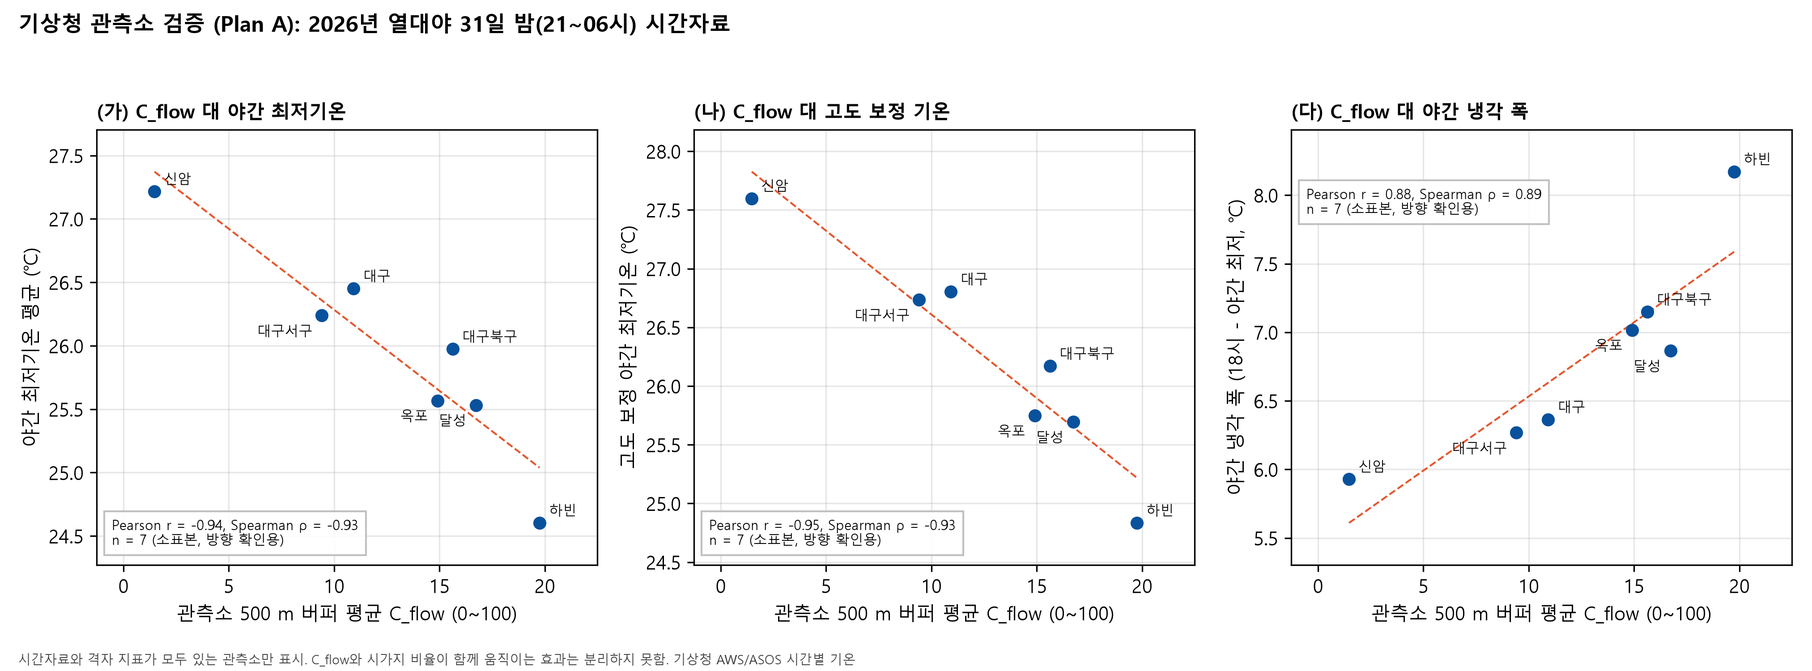
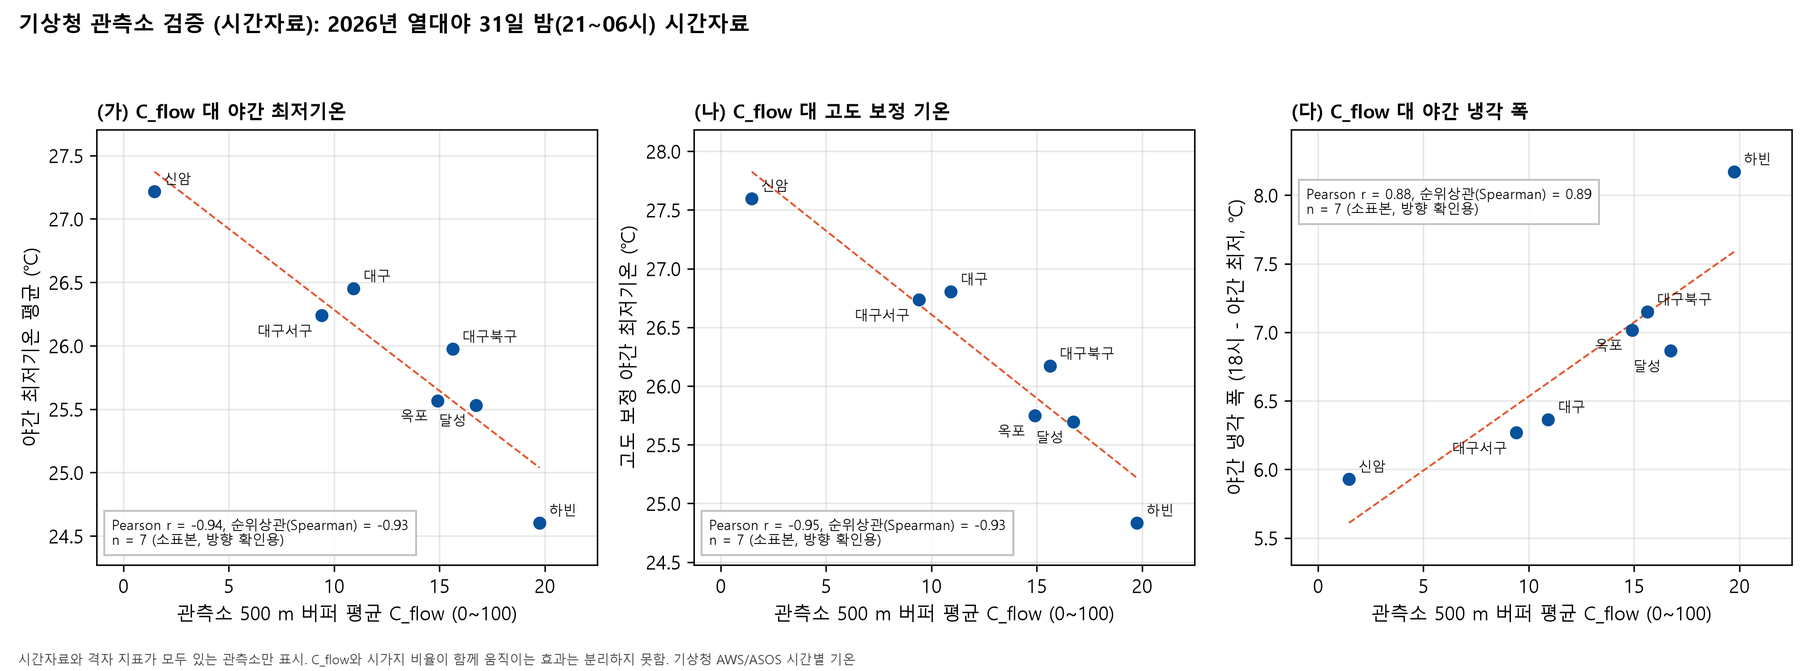
Remove internal codes, align figure terms and model names with final report

diff --git a/index.html b/index.html
@@ -1056,7 +1056,7 @@
               2026년 여름 열대야는 총 <strong>31일</strong>이었습니다. 기상청 열대야 목록 기준 밤 최저기온 평균은 <strong>26.35℃</strong>(최고 <strong>28.8℃</strong>)이고, 21시~다음 날 06시 정시 자료 기준 평균은 <strong>26.45℃</strong>, 일별 달력일(00~24시) 최저 평균은 <strong>26.00℃</strong>(목록과 3일만 일치)이므로 목적에 따라 시간 기준을 구분해 사용합니다.
             </p>
             <div class="story-highlight">
-              <strong>일교차 대신 저녁 18시부터 밤 최저까지의 하강 폭으로 검증:</strong> 1차 분석에서 참고한 일교차(맑은 날 11.57℃ 대 흐리거나 비 온 날 7.39℃)에는 낮 동안 햇볕으로 최고기온이 오르는 영향이 크게 섞입니다. 06 보강 실험에서 일교차 대신 저녁 18시부터 밤 최저까지의 하강 폭으로 2026년 6~9월 완결 <strong>120밤</strong>(관측소 7곳 평균, 강수 빈칸 또는 0이고 일평균 운량 3 이하를 맑음으로 분류)을 다시 집계한 결과, <strong>맑은 밤(25밤) 평균 9.41℃</strong>(중앙값 9.36℃), 중간 밤(43밤) <strong>7.74℃</strong>, <strong>흐리거나 비 온 밤(52밤) 4.63℃</strong>(중앙값 4.46℃)로 맑은 밤의 하강 폭이 두 배를 넘었습니다. 같은 기간 C_flow 최상위 하빈과 최하위 신암의 밤 최저기온 차이도 맑은 밤 평균 <strong>-3.44℃</strong>에서 흐리거나 비 온 밤 <strong>-1.38℃</strong>로 절반 이하로 줄었습니다.
+              <strong>일교차 대신 저녁 18시부터 밤 최저까지의 하강 폭으로 검증:</strong> 기본 분석에서 참고한 일교차(맑은 날 11.57℃ 대 흐리거나 비 온 날 7.39℃)에는 낮 동안 햇볕으로 최고기온이 오르는 영향이 크게 섞입니다. 보강 실험에서 일교차 대신 저녁 18시부터 밤 최저까지의 하강 폭으로 2026년 6~9월 완결 <strong>120밤</strong>(관측소 7곳 평균, 강수 빈칸 또는 0이고 일평균 운량 3 이하를 맑음으로 분류)을 다시 집계한 결과, <strong>맑은 밤(25밤) 평균 9.41℃</strong>(중앙값 9.36℃), 중간 밤(43밤) <strong>7.74℃</strong>, <strong>흐리거나 비 온 밤(52밤) 4.63℃</strong>(중앙값 4.46℃)로 맑은 밤의 하강 폭이 두 배를 넘었습니다. 같은 기간 C_flow 최상위 하빈과 최하위 신암의 밤 최저기온 차이도 맑은 밤 평균 <strong>-3.44℃</strong>에서 흐리거나 비 온 밤 <strong>-1.38℃</strong>로 절반 이하로 줄었습니다.
             </div>
             <figure class="story-figure">
               <img src="assets/exp_e2_sky_cooling.png" alt="하늘 상태별 7개 관측소 평균 야간 냉각 폭 및 하빈 대 신암 밤 최저기온 차이" onclick="openLightbox(this.src, this.alt)" />
@@ -1118,7 +1118,7 @@
               시가지 경계 관찰 구역에서 흐름 지표 상위 10%인 연속 구간 <strong>47개</strong>를 추출하고, 평균 점수가 가장 높은 <strong>도심 유입 길목 상위 15곳</strong>을 도출했습니다. 1위는 동구 <strong>동화천(COR_01, 평균 75.75점, 상위 0.7%)</strong>, 2위는 동구 <strong>불로천(COR_02, 71.17점, 상위 1.06%)</strong>이며, 수성구와 북구를 관통하는 <strong>신천(COR_06 64.68점, COR_07 62.95점)</strong>과 북구 <strong>팔거천(COR_13 59.75점, 인접 공원 16곳, 가로수 3,631그루)</strong>이 핵심 통로로 나타났습니다.
             </p>
             <div class="story-caution">
-              <strong>하천 및 공원 농축비 해석 주의 (독립 검증 아님):</strong> 감쇠 계수에서 하천과 공원 위치를 뺀 버전(river_free)에서도 상위 10% 격자의 하천 100m 이내 농축비는 <strong>2.214배</strong>(하천 포함 버전은 2.849배)였으나, DEM 흐름 누적은 원래 지형 골짜기를 따라가므로 이는 <strong>구조적 일치 확인일 뿐 독립 검증이 아닙니다</strong>. 또한 도시공원 농축비는 <strong>0.368배</strong>로 1보다 작은데, 흐름 상위 격자는 산지 계곡에 많고 도시공원은 시가지에 분포하기 때문입니다. 따라서 도시공원(672곳)과 가로수(97,618그루)는 흐름의 원천이 아니라 시가지로 유입된 길을 보행 공간으로 잇는 징검다리 역할로 해석해야 합니다.
+              <strong>하천 및 공원 농축비 해석 주의 (독립 검증 아님):</strong> 감쇠 계수에서 하천과 공원 위치를 뺀 버전에서도 상위 10% 격자의 하천 100m 이내 농축비는 <strong>2.214배</strong>(하천 포함 버전은 2.849배)였으나, DEM 흐름 누적은 원래 지형 골짜기를 따라가므로 이는 <strong>구조적 일치 확인일 뿐 독립 검증이 아닙니다</strong>. 또한 도시공원 농축비는 <strong>0.368배</strong>로 1보다 작은데, 흐름 상위 격자는 산지 계곡에 많고 도시공원은 시가지에 분포하기 때문입니다. 따라서 도시공원(672곳)과 가로수(97,618그루)는 흐름의 원천이 아니라 시가지로 유입된 길을 보행 공간으로 잇는 징검다리 역할로 해석해야 합니다.
             </div>
             <figure class="story-figure">
               <img src="assets/chart_02_corridor_profile_and_green_effect.png" alt="주요 유입 축 단면: 산자락에서 도심으로 갈 때의 찬 공기 흐름 간이 지표 변화" onclick="openLightbox(this.src, this.alt)" />
@@ -1140,20 +1140,20 @@
           </div>
           <div class="story-body">
             <p>
-              대구 주변 기상청 관측소 <strong>14곳</strong>(격자 안 <strong>12곳</strong>) 가운데 2026년 여름 시간별 기온 자료가 확보된 <strong>7곳</strong>(하빈, 달성, 대구북구, 옥포, 대구, 대구서구, 신암)에서 열대야 <strong>31일</strong>의 야간(21시~다음 날 06시, <strong>02 관측소 비교 기준: 밤 6시간 이상 관측된 밤</strong>) 실측 기온과 반경 500m 평균 지표를 비교했습니다.
+              대구 주변 기상청 관측소 <strong>14곳</strong>(격자 안 <strong>12곳</strong>) 가운데 2026년 여름 시간별 기온 자료가 확보된 <strong>7곳</strong>(하빈, 달성, 대구북구, 옥포, 대구, 대구서구, 신암)에서 열대야 <strong>31일</strong>의 야간(21시~다음 날 06시, <strong>기본 분석 관측소 비교 기준: 밤 6시간 이상 관측된 밤</strong>) 실측 기온과 반경 500m 평균 지표를 비교했습니다.
             </p>
             <p>
-              관측소 실측 비교에서 흐름 지표가 가장 높은 <strong>하빈(C_flow 19.746)</strong>의 열대야 밤 최저기온 평균은 <strong>24.60℃</strong>로 대구(ASOS 143, C_flow 10.924, 밤 최저 <strong>26.45℃</strong>)보다 실측 기준 <strong>1.85℃</strong> 낮았고, 옥포(25.57℃)는 <strong>0.88℃</strong>, 달성(25.53℃)은 <strong>0.92℃</strong>, 대구북구(25.97℃)는 <strong>0.48℃</strong> 더 낮았습니다. 반대로 도심 한가운데에 있어 흐름 지표가 가장 낮은 <strong>신암(C_flow 1.470)</strong>은 <strong>27.22℃</strong>로 대구 관측소보다 <strong>0.76℃</strong> 더 높았습니다. 7곳에서 500m 버퍼 C_flow와 열대야 밤 최저기온의 단순 순위상관은 <strong>Spearman ρ = -0.929</strong>(p=0.0025), 시가지 비율을 통제한 편순위상관은 <strong>-0.828</strong>(근사 p 약 0.042, n=7, <code>07d_extra.json</code> 기준)이며, 열대야 야간 냉각 폭과의 단순 순위상관은 <strong>+0.893</strong>이었습니다.
+              관측소 실측 비교에서 흐름 지표가 가장 높은 <strong>하빈(C_flow 19.746)</strong>의 열대야 밤 최저기온 평균은 <strong>24.60℃</strong>로 대구(ASOS 143, C_flow 10.924, 밤 최저 <strong>26.45℃</strong>)보다 실측 기준 <strong>1.85℃</strong> 낮았고, 옥포(25.57℃)는 <strong>0.88℃</strong>, 달성(25.53℃)은 <strong>0.92℃</strong>, 대구북구(25.97℃)는 <strong>0.48℃</strong> 더 낮았습니다. 반대로 도심 한가운데에 있어 흐름 지표가 가장 낮은 <strong>신암(C_flow 1.470)</strong>은 <strong>27.22℃</strong>로 대구 관측소보다 <strong>0.76℃</strong> 더 높았습니다. 7곳에서 500m 버퍼 C_flow와 열대야 밤 최저기온의 단순 순위상관은 <strong>Spearman ρ = -0.929</strong>(p=0.0025), 시가지 비율을 통제한 편순위상관은 <strong>-0.828</strong>(근사 p 약 0.042, n=7, 추가 계산 기준)이며, 열대야 야간 냉각 폭과의 단순 순위상관은 <strong>+0.893</strong>이었습니다.
             </p>
             <div class="story-caution">
               <strong>검증의 핵심 한계 (표본 수 n=7 및 분석 대상별 편상관 구분):</strong>
               1) 시간별 기온이 있는 관측소가 <strong>7곳</strong>뿐이라 검정력이 매우 낮습니다(청도, 가산, 칠곡, 신녕, 경산, 하양, 팔공산 7곳은 시간자료 없음).<br />
-              2) 열대야 밤 최저기온과 C_flow의 시가지 통제 편순위상관(<strong>-0.828</strong>, p 약 0.042, n=7)과 별개로, 06 보강 실험에서 관측소별 [맑은 밤 냉각 폭 - 흐린 밤 냉각 폭] 차이(하빈 6.30℃ 대 신암 3.60℃)를 대상으로 보면 단순 순위상관은 <strong>+0.857</strong>(p=0.0137)이나 시가지 비율 통제 편순위상관은 <strong>+0.639</strong>(근사 p=0.1719)로 통계적으로 유의하지 않았습니다. 두 수치는 분석 대상이 서로 다른 결과이며, n=7 요약만으로는 공간 교란 요인을 완전히 분리할 수 없습니다.
+              2) 열대야 밤 최저기온과 C_flow의 시가지 통제 편순위상관(<strong>-0.828</strong>, p 약 0.042, n=7)과 별개로, 보강 실험에서 관측소별 [맑은 밤 냉각 폭 - 흐린 밤 냉각 폭] 차이(하빈 6.30℃ 대 신암 3.60℃)를 대상으로 보면 단순 순위상관은 <strong>+0.857</strong>(p=0.0137)이나 시가지 비율 통제 편순위상관은 <strong>+0.639</strong>(근사 p=0.1719)로 통계적으로 유의하지 않았습니다. 두 수치는 분석 대상이 서로 다른 결과이며, n=7 요약만으로는 공간 교란 요인을 완전히 분리할 수 없습니다.
             </div>
             <figure class="story-figure">
-              <img src="assets/chart_03_station_validation_scatter.png" alt="기상청 관측소 7곳 C_flow 대 열대야 야간 최저기온, 고도보정 기온, 야간 냉각 폭 산점도" onclick="openLightbox(this.src, this.alt)" />
+              <img src="assets/chart_03_station_validation_scatter.png" alt="기상청 관측소 검증 (시간자료): 7곳 C_flow 대 열대야 야간 최저기온, 고도 보정 기온, 야간 냉각 폭 산점도" onclick="openLightbox(this.src, this.alt)" />
               <figcaption class="story-figcaption">
-                [단계 4 그래프] 기상청 관측소 실측 7곳의 반경 500m 평균 C_flow와 2026년 열대야 31일 야간 기온 지표 대조 산점도 (클릭하면 크게 봅니다)
+                [단계 4 그래프] 기상청 관측소 검증 (시간자료): 실측 7곳의 반경 500m 평균 C_flow와 2026년 열대야 31일 밤(21~06시) 야간 기온 지표 대조 산점도 (클릭하면 크게 봅니다)
               </figcaption>
             </figure>
           </div>
@@ -1170,7 +1170,7 @@
           </div>
           <div class="story-body">
             <p>
-              7개 관측소의 2026년 6~9월 완결 120밤을 합친 <strong>832개 관측소-밤 패널</strong>(<strong>06 패널 기준: 21~06시 10정시 완비 밤만 포함</strong>, 02 관측소 비교의 밤 6시간 이상 기준과 구분)에서 시가지 비율과 다른 공간, 기상 변수를 통제한 뒤에도 C_flow가 추가 설명력을 갖는지 검증했습니다. 날짜 고정효과 회귀(조건수 27.28)에서 C_flow 10점당 밤 최저기온 계수는 <strong>-1.20℃</strong>(군집 와일드 95% 신뢰구간 -1.89~-0.50℃), 맑은 밤 교차항은 <strong>-0.45℃</strong>(맑은 밤 기울기 -1.65℃)였습니다.
+              7개 관측소의 2026년 6~9월 완결 120밤을 합친 <strong>832개 관측소-밤 패널</strong>(<strong>보강 실험 패널 기준: 21~06시 10정시 완비 밤만 포함</strong>, 기본 분석 관측소 비교의 밤 6시간 이상 기준과 구분)에서 시가지 비율과 다른 공간, 기상 변수를 통제한 뒤에도 C_flow가 추가 설명력을 갖는지 검증했습니다. 날짜 고정효과 회귀(조건수 27.28)에서 C_flow 10점당 밤 최저기온 계수는 <strong>-1.20℃</strong>(관측소 7곳 단위 군집 와일드 128개 부호 조합 95% 신뢰구간 -1.89~-0.50℃), 맑은 밤 교차항은 <strong>-0.45℃</strong>(맑은 밤 기울기 -1.65℃)였습니다.
             </p>
             <p>
               이어서 시험 관측소의 기온 정보를 완전히 빼고 학습 관측소 6곳 평균으로만 중심화해 <strong>그 밤 관측소 평균 대비 최저기온 차</strong>를 예측하는 <strong>관측소 하나 빼기(LOSO) 교차검증</strong>을 수행했습니다. 보수적으로 과적합을 제한한 트리 모형(공간변수 C_gen, 시가지 비율, 녹지 비율, 해발고도, 하천거리 + 날씨변수 운량, 강수, 낮 최고기온 포함)에 C_flow를 추가하자 두 모형 모두 새 관측소 예측 오차가 줄었습니다.
@@ -1179,10 +1179,11 @@
               <strong>LOSO 검증 오차 감소 및 독립 재현 결과 (예측 목표: 그 밤 관측소 평균 대비 최저기온 차):</strong><br />
               1) <strong>랜덤포레스트</strong>(max_depth=5, min_samples_leaf=15, n_estimators=300): RMSE <strong>0.997℃ → 0.850℃</strong> (<strong>0.147℃</strong> 감소, 관측소 재표집 95% 구간 0.019~0.305℃), MAE <strong>0.773℃ → 0.645℃</strong> (0.128℃ 감소).<br />
               2) <strong>그래디언트부스팅</strong>(max_depth=2, min_samples_leaf=15, n_estimators=150): RMSE <strong>0.918℃ → 0.825℃</strong> (<strong>0.094℃</strong> 감소, 95% 구간 0.006~0.220℃), MAE <strong>0.709℃ → 0.616℃</strong> (0.093℃ 감소).<br />
-              3) <strong>다른 AI 모델의 독립 재현</strong>(<code>pipeline/coolwind/06_a4_report.md</code>): 실험 코드를 보지 않고 원자료와 정의만으로 독립 계산한 기본 랜덤포레스트(112밤 784행, n_estimators=500, 규제 없음)에서도 C_flow 제외 RMSE <strong>1.166℃</strong>에서 포함 <strong>0.948℃</strong>로 <strong>0.218℃</strong> 줄어(학습 목표 6곳 재중심화 시 1.075℃ → 0.827℃, 0.248℃ 감소) 같은 방향이 확인되었습니다.
+              3) <strong>관측소별 오차 변화:</strong> 랜덤포레스트에서 C_flow를 넣었을 때 오차가 줄어든 관측소는 7곳 중 일부인 <strong>4곳</strong>(달성, 대구북구, 대구서구, 옥포)이었고, 나머지 3곳(대구, 신암, 하빈)은 줄지 않았습니다(그래디언트부스팅은 7곳 중 5곳 감소).<br />
+              4) <strong>다른 AI 모델의 독립 재현</strong>: 실험 코드를 보지 않고 원자료와 정의만으로 독립 계산한 기본 랜덤포레스트(112밤 784행, n_estimators=500, 규제 없음)에서도 C_flow 제외 RMSE <strong>1.166℃</strong>에서 포함 <strong>0.948℃</strong>로 <strong>0.218℃</strong> 줄어(학습 목표 6곳 재중심화 시 1.075℃ → 0.827℃, 0.248℃ 감소) 같은 방향이 확인되었습니다.
             </div>
             <div class="story-caution">
-              <strong>AI 검증 해석 주의:</strong> 832개 관측소-밤 패널이라도 공간 위치의 실질 표본은 <strong>관측소 7곳</strong>입니다. TreeSHAP(아래 오른쪽 그림)에서 C_gen과 C_flow, 녹지 비율, 시가지 비율, 운량이 상위 변수로 나타나고 C_flow 양수 기여가 맑은 밤(n=175)에 더 넓게 퍼졌지만, SHAP은 예측 모형의 기여 분해일 뿐 인과효과나 물리적 공기 이동량이 아닙니다. 또한 같은 날짜의 다른 관측소로 학습하므로 새 장소 일반화 검증이며 미래 날짜 검증은 아닙니다.
+              <strong>AI 검증 해석 주의:</strong> 832개 관측소-밤 패널이라도 공간 위치의 실질 표본은 <strong>관측소 7곳</strong>이며, 폴드당 학습 관측소가 6곳뿐이라 과적합 위험이 있습니다. TreeSHAP(아래 오른쪽 그림)에서 C_gen과 C_flow, 녹지 비율, 시가지 비율, 운량이 상위 변수로 나타나고 C_flow 양수 기여가 맑은 밤(n=175)에 더 넓게 퍼졌지만, SHAP은 예측 모형의 기여 분해일 뿐 인과효과나 물리적 공기 이동량이 아닙니다. 또한 같은 날짜의 다른 관측소로 학습하므로 새 장소 일반화 검증이며 미래 날짜 검증은 아닙니다.
             </div>
             <figure class="story-figure">
               <img src="assets/exp_e1_loso.png" alt="관측소 하나 빼기(LOSO) 검증에서 C_flow 제외 대 포함 RMSE 비교" onclick="openLightbox(this.src, this.alt)" />
@@ -1213,15 +1214,15 @@
               같은 분석 격자 위에서 도출한 지표를 시민 보행 탐색 안내와 도시계획 사전 검토라는 두 가지 용도로 연결했습니다.
             </p>
             <p>
-              <strong>1) 찬바람길 탐색 등급(흐름 잠재력과 수변/공원 접근성 결합)과 현장 확인이 필요한 후보 구간 8곳:</strong> 보행 영역(반경 300m 시가지 비율 0.3 이상, 유효 <strong>266,611격자</strong>)에서 구군 간 공정 비교를 위해 대구 전역 공통식(<code>S_walk_all = 0.65 × C_flow + 0.35 × I_river_park</code>)의 백분위로 1등급(상위 10%)부터 5등급(하위 25%, 하위 구간)까지 매겼습니다. 1~2등급 수변과 공원이 이어진 후보 <strong>41곳</strong> 중 하천별 대표성을 고려해 <strong>신천 수변 코스(CRS_01, 15.65km)</strong>, <strong>금호강 수변 코스(CRS_02, 11.08km)</strong>, <strong>팔거천 수변 코스(CRS_03, 10.38km, 공원 12곳 연결)</strong> 등 실제 보행로 연결성, 횡단 가능성, 야간 안전에 대한 <strong>현장 확인이 필요한 후보 구간 8개</strong>를 추렸습니다.
+              <strong>1) 찬바람길 탐색 등급(흐름 잠재력과 수변/공원 접근성 결합)과 현장 확인 후보 구간 8곳:</strong> 보행 영역(반경 300m 시가지 비율 0.3 이상, 유효 <strong>266,611격자</strong>)에서 8개 구군 간 공정 비교를 위해 8개 구군 공통식(<code>S_walk_all = 0.65 × C_flow + 0.35 × I_river_park</code>)의 백분위로 1등급(상위 10%)부터 5등급 하위 구간(하위 25%)까지 매겼습니다. 1~2등급 수변과 공원이 이어진 후보 <strong>41곳</strong> 중 하천별 대표성을 고려해 <strong>신천 수변 코스(CRS_01, 15.65km)</strong>, <strong>금호강 수변 코스(CRS_02, 11.08km)</strong>, <strong>팔거천 수변 코스(CRS_03, 10.38km, 공원 12곳 연결)</strong> 등 실제 보행로 연결성, 횡단 가능성, 야간 안전 확인이 필요한 <strong>현장 확인 후보 구간 8개</strong>를 추렸습니다.
             </p>
             <p>
-              <strong>2) 행정용 길목 막힘 위험 지수(R_block, 0~100)와 건물 높이 비교:</strong> 기본안(02)은 건물 높이를 쓰지 않고 상류 300m C_flow가 대구 상위 20%(<strong>25.682점</strong> 이상)이면서 하류 시가지 비율이 <strong>0.7</strong> 이상인 후보 <strong>1,224격자</strong>에서 WorldCover 기반 막힘 지수 상위 15곳(BLK_01~BLK_15)을 추렸습니다. 06 보강 실험에서 국토교통부 건물 높이 자료를 반영한 15곳과 반경 500m 내 <strong>7곳(46.7%)</strong>이 겹쳤으나, 건물안은 하류 건물막힘 70백분위 이상 및 높이 유효 격자 80% 이상(10,994격자)을 사용해 <strong>후보 조건이 달라 건물 높이 효과만 분리할 수 없습니다.</strong> WorldCover 기본안은 녹지 연결 탐색용 1차 스크리닝으로만 쓰고 건축 밀도 심의에는 건물 높이를 직접 반영해야 합니다.
+              <strong>2) 행정용 길목 막힘 위험 지수(R_block, 0~100)와 건물 높이 비교:</strong> 기본 분석안은 건물 높이를 쓰지 않고 상류 300m C_flow가 대구 상위 20%(<strong>25.682점</strong> 이상)이면서 하류 시가지 비율이 <strong>0.7</strong> 이상인 후보 <strong>1,224격자</strong>에서 WorldCover 기반 막힘 지수 상위 15곳(BLK_01~BLK_15)을 추렸습니다. 보강 실험에서 국토교통부 건물 높이 자료를 반영한 15곳과 반경 500m 내 <strong>7곳(46.7%: BLK_02, BLK_06, BLK_08, BLK_09, BLK_11, BLK_14, BLK_15)</strong>이 겹쳤으나, 건물안은 하류 건물막힘 70백분위 이상 및 높이 유효 격자 80% 이상(10,994격자)을 사용해 <strong>후보 조건이 달라 건물 높이 효과만 분리할 수 없습니다.</strong> WorldCover 기본안은 녹지 연결 탐색용 1차 스크리닝으로만 쓰고 건축 밀도 심의에는 건물 높이를 직접 반영해야 합니다.
             </p>
             <figure class="story-figure">
-              <img src="assets/map_04_citizen_coolwind_walk_grades.png" alt="[시민용] 찬바람길 탐색 등급과 현장 확인이 필요한 후보 구간 8곳 지도" onclick="openLightbox(this.src, this.alt)" />
+              <img src="assets/map_04_citizen_coolwind_walk_grades.png" alt="[시민용] 찬바람길 탐색 등급과 현장 확인 후보 구간 8곳 지도" onclick="openLightbox(this.src, this.alt)" />
               <figcaption class="story-figcaption">
-                [단계 6 지도] [시민용] 찬바람길 탐색 등급(흐름 잠재력과 수변/공원 접근성 결합)과 현장 확인이 필요한 후보 구간 8곳. 등급은 백분위 순위이며 실측 기온 차이가 아님 (클릭하면 크게 봅니다)
+                [단계 6 지도] [시민용] 찬바람길 탐색 등급(흐름 잠재력과 수변/공원 접근성 결합, 8개 구군 공통식)과 현장 확인 후보 구간 8곳(범례: 1~2등급 수변/공원 연결). 등급은 백분위 순위이며 실측 기온 차이가 아님 (클릭하면 크게 봅니다)
               </figcaption>
             </figure>
           </div>
@@ -1246,7 +1247,7 @@
         <figure class="story-figure" style="margin-top: 0;">
           <img src="assets/exp_b_building_overlap.png" alt="기존 WorldCover 기반 막힘 위험 상위 15곳과 건물 높이 및 건폐율 기반 상위 15곳 공간 겹침" onclick="openLightbox(this.src, this.alt)" />
           <figcaption class="story-figcaption">
-            <strong>[건물 높이 막힘 비교]</strong> 빈 원(기존 WorldCover 상위 15곳) 대 주황색 점(건물 높이 기반 상위 15곳). 반경 30m 3곳(20.0%), 100m 5곳(33.3%), 300m 6곳(40.0%), 500m 및 1,000m 7곳(46.7%) 겹침 (클릭하면 크게 봅니다)
+            <strong>[건물 높이 막힘 비교]</strong> 빈 원(기존 WorldCover 상위 15곳) 대 주황색 점(건물 높이 기반 상위 15곳). 반경 30m 내 3곳(20.0%), 100m 내 5곳(33.3%), 300m 내 6곳(40.0%), 500m 및 1,000m 내 7곳(46.7%: BLK_02, BLK_06, BLK_08, BLK_09, BLK_11, BLK_14, BLK_15) 겹침 (클릭하면 크게 봅니다)
           </figcaption>
         </figure>
         <figure class="story-figure" style="margin-top: 0;">
@@ -1259,7 +1260,7 @@
 
       <div class="two-col-grid" style="margin-top: 18px;">
         <div>
-          <h3 style="font-size: 16px; margin: 0 0 8px 0; color: var(--text);">1) 건물 높이 기반 막힘 지점 상위 15곳 (06:B, 클릭 시 지도 이동)</h3>
+          <h3 style="font-size: 16px; margin: 0 0 8px 0; color: var(--text);">1) 건물 높이 기반 막힘 지점 상위 15곳 (보강 실험, 클릭 시 지도 이동)</h3>
           <p style="font-size: 12.5px; color: var(--text-muted); margin: 0 0 8px 0;">
             필드 <code>A16</code>을 높이(m)로 매핑한 통상 스키마 가정 결과입니다(층수 <code>A26</code>와 순위 상관 0.891, 층당 중앙값 3.82m, 공식 명세 미확인). 하류 건물막힘 70백분위 이상 및 높이 유효 격자 80% 이상 후보 10,994격자 중 선정했으며, 기본안(하류 시가지 비율 0.7 이상, 1,224격자)과 후보 조건이 달라 건물 높이 효과만 분리할 수 없습니다.
           </p>
@@ -1281,7 +1282,7 @@
         </div>
 
         <div>
-          <h3 style="font-size: 16px; margin: 0 0 8px 0; color: var(--text);">2) 관측소별 야간 바람 및 상류 45도 이내 정렬 (06:W, 클릭 시 지도 이동)</h3>
+          <h3 style="font-size: 16px; margin: 0 0 8px 0; color: var(--text);">2) 관측소별 야간 바람 및 상류 45도 이내 정렬 (보강 실험, 클릭 시 지도 이동)</h3>
           <p style="font-size: 12.5px; color: var(--text-muted); margin: 0 0 8px 0;">
             무풍 기준은 풍속 0.5m/s 미만이며, 대구 ASOS 143은 시간별 바람 자료가 없어 결측(자료 없음)으로 두었습니다. 대구북구와 신암은 관측소 격자에서 90m 이상 이어진 우세 상류 경로가 잡히지 않았습니다.
           </p>
@@ -1307,7 +1308,7 @@
     <section class="section-card" aria-label="분석 지도 및 기본 민감도 그래프 모음">
       <h2 class="section-title">부록 시각화: 흐름 길목 지도, 녹지 징검다리, 행정 막힘 위험 지도, 가중치 민감도</h2>
       <p class="section-desc">
-        위 이야기 흐름과 보강 비교에 포함된 그림 외에 1차 공간 분석에서 생성한 지도 3종과 가중치 민감도 그래프(실험 A, B, C)입니다. 이미지를 누르면 크게 확대됩니다.
+        위 이야기 흐름과 보강 비교에 포함된 그림 외에 기본 분석에서 생성한 지도 3종과 가중치 민감도 그래프(실험 A, B, C)입니다. 이미지를 누르면 크게 확대됩니다.
       </p>
       <div class="gallery-grid">
         <div class="gallery-item">
@@ -1333,7 +1334,7 @@
     <section class="section-card" id="section-data">
       <h2 class="section-title">데이터 출처와 라이선스</h2>
       <p class="section-desc">
-        대구광역시 공공데이터 5종과 기상청 공공데이터 5종(보강 야간 바람 25,774행 포함)을 핵심 자료로 사용하고, 지형(Copernicus DEM), 토지피복(ESA WorldCover), 하천 및 행정경계(OpenStreetMap), 국토교통부 GIS건물통합정보(보강 382,695동)를 보조 공간자료로 결합했습니다. 수치는 <code>02_analysis_results.json</code>, <code>06_experiments.json</code>, <code>07d_extra.json</code> 및 독립 재현 보고서(<code>06_a4_report.md</code>) 출처에 따릅니다.
+        대구광역시 공공데이터 5종과 기상청 공공데이터 5종(보강 야간 바람 25,774행 포함)을 핵심 자료로 사용하고, 지형(Copernicus DEM), 토지피복(ESA WorldCover), 하천 및 행정경계(OpenStreetMap), 국토교통부 GIS건물통합정보(보강 382,695동)를 보조 공간자료로 결합했습니다. 수치는 기본 분석, 보강 실험, 추가 계산의 분석 결과 파일과 다른 AI 모델의 독립 재현 출처에 따릅니다.
       </p>
       <div class="table-wrap">
         <table class="data-table">
@@ -1358,7 +1359,7 @@
       <section class="section-card" id="section-method">
         <h2 class="section-title">분석 방법 및 민감도 확인 요약</h2>
         <p class="section-desc">
-          정밀 전산유체 모형 대신 공개 데이터만으로 언제든 재현할 수 있는 30m 격자 상시 갱신형 경량 스크리닝 지표를 설계하고, 06 보강 실험으로 민감도를 점검했습니다.
+          정밀 전산유체 모형 대신 공개 데이터만으로 언제든 재현할 수 있는 30m 격자 상시 갱신형 경량 스크리닝 지표를 설계하고, 보강 실험으로 민감도를 점검했습니다.
         </p>
 
         <div class="method-box">
@@ -1378,12 +1379,12 @@
         <div class="method-box">
           <h4>3. 찬바람길 탐색 등급 (1~5등급)과 행정 막힘 위험 지수 (R_block, 0~100)</h4>
           <p>
-            보행 영역(반경 300m 시가지 0.3 이상, 수면 0.5 미만)에서 달서구와 달성군의 가로수 자료 부재를 고려해 대구 전역 공통식 <code>S_walk_all = 0.65 × C_flow + 0.35 × I_river_park</code>의 백분위(상위 10%, 25%, 50%, 75%)로 <strong>찬바람길 탐색 등급(흐름 잠재력과 수변/공원 접근성 결합)</strong> 1~5등급을 부여했습니다. 기본 막힘 위험 지수는 반경 300m 상류 평균 C_flow와 하류 시가지 비율, 하류 녹지 단절도 <code>(1 - G_down)</code>의 곱을 정규화했으며, 건물 실험안은 하류 건폐율 × 평균 높이의 정규화 값을 곱해 비교했습니다.
+            보행 영역(반경 300m 시가지 0.3 이상, 수면 0.5 미만)에서 달서구와 달성군의 가로수 자료 부재를 고려해 8개 구군 공통식 <code>S_walk_all = 0.65 × C_flow + 0.35 × I_river_park</code>의 백분위(상위 10%, 25%, 50%, 75%)로 <strong>찬바람길 탐색 등급(흐름 잠재력과 수변/공원 접근성 결합)</strong> 1~5등급을 부여했습니다. 기본 막힘 위험 지수는 반경 300m 상류 평균 C_flow와 하류 시가지 비율, 하류 녹지 단절도 <code>(1 - G_down)</code>의 곱을 정규화했으며, 건물 실험안은 하류 건폐율 × 평균 높이의 정규화 값을 곱해 비교했습니다.
           </p>
         </div>
 
         <div class="method-box">
-          <h4>4. 가중치 민감도 실험 (1차 실험 A, B, C)</h4>
+          <h4>4. 가중치 민감도 실험 (기본 분석 실험 A, B, C)</h4>
           <ul>
             <li><strong>실험 A-1 (숲 집중안: 초지 0.6, 농지 0.3):</strong> 상위 10% Jaccard <strong>0.9553</strong>, 격자 순위 상관 <strong>0.9932</strong>, 상위 10개 길목 중 <strong>9개</strong> 유지.</li>
             <li><strong>실험 A-2 (균등 녹지안: 초지 0.9, 농지 0.85):</strong> 상위 10% Jaccard <strong>0.986</strong>, 격자 순위 상관 <strong>0.9995</strong>, 상위 10개 길목 중 <strong>10개</strong> 유지.</li>
@@ -1393,15 +1394,15 @@
         </div>
 
         <div class="method-box">
-          <h4>5. 의사 지형과 등급식 민감도 실험 (06 보강 E3)</h4>
+          <h4>5. 의사 지형과 등급식 민감도 실험 (보강 실험)</h4>
           <ul>
-            <li><strong>시가지 의사 지형(150m / 330m / 630m 창):</strong> 시가지 격자(173,627 / 258,739 / 310,215개) 고도를 주변 비시가지 최솟값으로 하향 보정(중앙값 2.06m / 4.58m / 7.79m)해 재계산하면, <strong>현장 확인이 필요한 후보 구간 8곳은 90m 이내 양방향 포함률 50% 이상 매칭 기준으로 8 / 8 / 7곳이 유지</strong>되고 기존 경로의 1~2등급 유지도 8곳 전부 통과했습니다. 반면 <strong>유입 길목 상위 15곳은 4곳(26.7%) / 5곳(33.3%) / 2곳(13.3%)만 유지</strong>되어 좁은 길목 순위는 DSM 표면 변화에 크게 흔들렸습니다.</li>
+            <li><strong>시가지 의사 지형(150m / 330m / 630m 창):</strong> 시가지 격자(173,627 / 258,739 / 310,215개) 고도를 주변 비시가지 최솟값으로 하향 보정(중앙값 2.06m / 4.58m / 7.79m)해 재계산하면, <strong>현장 확인 후보 구간 8곳은 90m 이내 양방향 포함률 50% 이상 매칭 기준으로 8 / 8 / 7곳이 유지</strong>되고 기존 경로의 1~2등급 유지도 8곳 전부 통과했습니다. 반면 <strong>유입 길목 상위 15곳은 4곳(26.7%) / 5곳(33.3%) / 2곳(13.3%)만 유지</strong>되어 좁은 길목 순위는 DSM 표면 변화에 크게 흔들렸습니다.</li>
             <li><strong>찬바람길 탐색 등급식 구조 변경:</strong> 가중합 비율 변경(<code>0.80:0.20</code> / <code>0.50:0.50</code>)에서는 1~2등급 Jaccard <strong>0.666 / 0.760</strong>, 재선정 구간 <strong>5 / 6곳</strong>이 유지되었으나, C_flow에 접근성을 곱하는 조건부식(<code>a=0.5 / a=1.0</code>)에서는 1~2등급 Jaccard <strong>0.398 / 0.433</strong>, 재선정 구간 <strong>4 / 3곳</strong>으로 낮아져 등급식 가정에 민감했습니다.</li>
           </ul>
           <figure class="story-figure" style="margin-top: 10px;">
-            <img src="assets/exp_e3_sensitivity.png" alt="시가지 의사 지형 창폭별 길목과 후보 구간 유지율 및 찬바람길 탐색 등급식 변경 민감도" onclick="openLightbox(this.src, this.alt)" />
+            <img src="assets/exp_e3_sensitivity.png" alt="시가지 의사 지형 창폭별 길목 상위 15 유지율과 후보 구간 유지율(중첩 기준) 및 찬바람길 탐색 등급식 변경 민감도" onclick="openLightbox(this.src, this.alt)" />
             <figcaption class="story-figcaption">
-              [민감도 06:E3] (좌) 시가지 의사 지형 창폭별 길목 상위 15(녹색) 대 후보 구간(빨강) 유지율, (우) 찬바람길 탐색 등급식 변경에 따른 1~2등급 일치율과 후보 구간 유지율 (클릭하면 크게 봅니다)
+              [민감도 보강 실험] (좌) 시가지 의사 지형 창폭별 길목 상위 15 유지율(녹색) 대 후보 구간 유지율(중첩 기준, 빨강), (우) 시민 등급식 변경에 따른 1~2등급 Jaccard와 후보 구간 유지율(중첩 기준) (클릭하면 크게 봅니다)
             </figcaption>
           </figure>
         </div>
@@ -1410,12 +1411,12 @@
       <section class="section-card" id="section-limits">
         <h2 class="section-title">분석의 한계와 읽을 때 주의할 점</h2>
         <p class="section-desc">
-          이 페이지의 결과는 물리 시뮬레이션이나 인과 검정이 아니며, 06 보강 실험에서 확인된 부정적 결과와 제약을 포함해 아래 한계를 명시한 상태에서 활용해야 합니다.
+          이 페이지의 결과는 물리 시뮬레이션이나 인과 검정이 아니며, 보강 실험에서 확인된 부정적 결과와 제약을 포함해 아래 한계를 명시한 상태에서 활용해야 합니다.
         </p>
         <ol class="limitation-list">
           <li>
             <strong>관측소 실측 표본(n=7)과 분석 대상별 편순위상관 구분:</strong>
-            패널 행은 832개 관측소-밤(10정시 완비 기준)이지만 공간 위치의 독립 표본은 <strong>7곳</strong>뿐입니다(청도, 가산, 칠곡, 신녕, 경산, 하양, 팔공산 7곳 시간자료 없음). 열대야 31일 밤 최저기온과 C_flow의 순위상관은 <strong>-0.929</strong>(p=0.0025), 시가지 비율을 통제한 편순위상관은 <strong>-0.828</strong>(근사 p 약 0.042, n=7로 검정력 매우 낮음)입니다. 반면 맑은 밤과 흐린 밤의 냉각 폭 차이(06 실험 E2)와 C_flow의 단순 순위상관은 <strong>+0.857</strong>(p=0.0137)이나, <strong>시가지 비율 통제 편순위상관은 +0.639(근사 p=0.1719)로 유의하지 않습니다.</strong>
+            패널 행은 832개 관측소-밤(10정시 완비 기준)이지만 공간 위치의 독립 표본은 <strong>7곳</strong>뿐입니다(청도, 가산, 칠곡, 신녕, 경산, 하양, 팔공산 7곳 시간자료 없음). 열대야 31일 밤 최저기온과 C_flow의 순위상관은 <strong>-0.929</strong>(p=0.0025), 시가지 비율을 통제한 편순위상관은 <strong>-0.828</strong>(근사 p 약 0.042, n=7로 검정력 매우 낮음)입니다. 반면 맑은 밤과 흐린 밤의 냉각 폭 차이(보강 실험)와 C_flow의 단순 순위상관은 <strong>+0.857</strong>(p=0.0137)이나, <strong>시가지 비율 통제 편순위상관은 +0.639(근사 p=0.1719)로 유의하지 않습니다.</strong>
           </li>
           <li>
             <strong>야간 바람 상류 정렬은 달성 한 곳만 높음:</strong>
@@ -1423,11 +1424,11 @@
           </li>
           <li>
             <strong>DSM 표면 모델 왜곡과 길목 상위 15곳 민감성:</strong>
-            Copernicus DEM은 건물과 수목 높이가 섞인 표면 모델(DSM)입니다. 의사 지형 실험에서 현장 확인이 필요한 후보 구간 8곳은 매칭 기준(90m 이내 양방향 포함률 50% 이상)으로 7~8곳이 유지되었으나 <strong>좁은 유입 길목 상위 15곳은 2~5곳만 유지</strong>되어 수문 흐름 누적 방식(MFD)이 미세 지형 변화에 민감함이 확인되었습니다. 또한 최솟값 필터는 진정한 건물 제거 DEM이 아니며 비시가지 수목 DSM 왜곡은 남습니다.
+            Copernicus DEM은 건물과 수목 높이가 섞인 표면 모델(DSM)입니다. 의사 지형 실험에서 현장 확인 후보 구간 8곳은 매칭 기준(90m 이내 양방향 포함률 50% 이상)으로 7~8곳이 유지되었으나 <strong>좁은 유입 길목 상위 15곳은 2~5곳만 유지</strong>되어 수문 흐름 누적 방식(MFD)이 미세 지형 변화에 민감함이 확인되었습니다. 또한 최솟값 필터는 진정한 건물 제거 DEM이 아니며 비시가지 수목 DSM 왜곡은 남습니다.
           </li>
           <li>
             <strong>건물 높이 기반 막힘 지점은 후보 조건이 달라 건물 높이 효과만 분리할 수 없음:</strong>
-            브이월드 건물 정보의 <code>A16</code> 높이 매핑은 공식 명세 확인 없이 통상 스키마를 적용한 가정이며(158,768동 높이 미상으로 제외), 건물 높이 기반 막힘 15곳은 기존 WorldCover 기반 15곳과 <strong>500m 내 7곳(46.7%)만 겹쳤습니다.</strong> 또한 기본안(하류 시가지 비율 0.7 이상, 1,224격자)과 건물안(하류 건물막힘 70백분위 이상 및 높이 유효 격자 80% 이상, 10,994격자)은 <strong>후보 조건이 달라 건물 높이 효과만 분리할 수 없습니다.</strong> 기존 막힘 지도는 녹지 단절 1차 탐색용으로만 쓰고 건축 밀도 심의에는 3차원 건물 높이를 직접 써야 합니다.
+            브이월드 건물 정보의 <code>A16</code> 높이 매핑은 공식 명세 확인 없이 통상 스키마를 적용한 가정이며(158,768동 높이 미상으로 제외), 건물 높이 기반 막힘 15곳은 기존 WorldCover 기반 15곳과 <strong>500m 내 7곳(46.7%: BLK_02, BLK_06, BLK_08, BLK_09, BLK_11, BLK_14, BLK_15)만 겹쳤습니다.</strong> 또한 기본안(하류 시가지 비율 0.7 이상, 1,224격자)과 건물안(하류 건물막힘 70백분위 이상 및 높이 유효 격자 80% 이상, 10,994격자)은 <strong>후보 조건이 달라 건물 높이 효과만 분리할 수 없습니다.</strong> 기존 막힘 지도는 녹지 단절 1차 탐색용으로만 쓰고 건축 밀도 심의에는 3차원 건물 높이를 직접 써야 합니다.
           </li>
           <li>
             <strong>하천 겹침, AI SHAP, 탐색 등급식 및 결측 자료의 한계:</strong>
@@ -1436,6 +1437,57 @@
         </ol>
       </section>
     </div>
+
+    <!-- Bottom 3: AI Usage Disclosure -->
+    <section class="section-card" id="section-ai" aria-label="AI 활용 내역 및 분석 환경">
+      <h2 class="section-title">AI 활용 내역 및 분석 환경</h2>
+      <p class="section-desc">
+        사용 기간은 2026-11-17 ~ 2026-11-18이며, 분석 환경은 Python 3.11(scikit-learn, shap, statsmodels, rasterio, 난수 시드 42)을 사용했습니다. 본문의 모든 숫자는 코드 실행 분석 결과 파일과 자동 대조하고 다른 회사 AI 모델의 독립 재현을 거쳤으며, 주제 결정, 데이터 직접 수집, 수치 대조와 반영 여부 판단은 사람이 직접 수행했습니다.
+      </p>
+      <div class="table-wrap">
+        <table class="data-table">
+          <thead>
+            <tr>
+              <th>역할</th>
+              <th>도구</th>
+              <th>모델 (제공사, 모델 ID)</th>
+            </tr>
+          </thead>
+          <tbody>
+            <tr>
+              <td>연구계획, 초고</td>
+              <td>Google Antigravity 에이전트 (Orca 경유)</td>
+              <td>Gemini 4 Argon (Google, gemini-4-argon)</td>
+            </tr>
+            <tr>
+              <td>기본 분석 코드 작성과 실행, 공공데이터 탐색</td>
+              <td>Claude Code</td>
+              <td>Claude Opus 5.5 (Anthropic, claude-opus-5-5)</td>
+            </tr>
+            <tr>
+              <td>원고 다듬기</td>
+              <td>Claude Code</td>
+              <td>Claude Fable 5.2 (Anthropic, claude-fable-5-2)</td>
+            </tr>
+            <tr>
+              <td>보강 실험 코드 작성, 관문 리뷰</td>
+              <td>OpenAI Codex CLI</td>
+              <td>GPT-6-Astra (OpenAI, gpt-6-astra)</td>
+            </tr>
+            <tr>
+              <td>독립 재현, 수정 원고 작성</td>
+              <td>Google Antigravity 에이전트 (Orca 경유)</td>
+              <td>Gemini 4 Hydrogen (Google, gemini-4-hydrogen)</td>
+            </tr>
+            <tr>
+              <td>외부 리뷰 2회</td>
+              <td>Google Deep Review</td>
+              <td>Google</td>
+            </tr>
+          </tbody>
+        </table>
+      </div>
+    </section>
 
   </main>
 
@@ -1451,7 +1503,7 @@
   </div>
 
   <footer class="site-footer">
-    대구 밤의 찬바람길 웹 시각화 페이지 | 수치 출처: <code>pipeline/coolwind/02_analysis_results.json</code>, <code>pipeline/coolwind/06_experiments.json</code>, <code>pipeline/coolwind/07d_extra.json</code> 및 독립 재현 보고서(<code>pipeline/coolwind/06_a4_report.md</code>) | 배경지도: &copy; OpenStreetMap contributors (ODbL)
+    대구 밤의 찬바람길 웹 시각화 페이지 | 수치 출처: 기본 분석, 보강 실험, 추가 계산의 분석 결과 파일 및 다른 AI 모델의 독립 재현 | 배경지도: &copy; OpenStreetMap contributors (ODbL)
   </footer>
 
   <!-- Leaflet JS & Local Data Bundle -->
@@ -1790,7 +1842,7 @@
               <tr><td class="k">행정 검토 제안</td><td class="v" style="color:#9b2226;">${p.admin_review_recommendation}</td></tr>
             </table>
             <div class="popup-note">
-              기본안(02)은 건물 높이를 쓰지 않은 WorldCover 시가지 비율 및 녹지 단절도 기반 1차 스크리닝이며, 건물 높이 비교는 06 보강 실험에서 수행했습니다.
+              기본 분석안은 건물 높이를 쓰지 않은 WorldCover 시가지 비율 및 녹지 단절도 기반 1차 스크리닝이며, 건물 높이 비교는 보강 실험에서 수행했습니다.
             </div>
           </div>
         `;
@@ -1811,7 +1863,7 @@
         featureRefs.hotspots[p.hotspot_id] = { marker, props: p };
       });
 
-      // 8b. Building-height blockage hotspots (06:B, 15 Points)
+      // 8b. Building-height blockage hotspots (15 Points)
       layers.bhotspots = L.layerGroup();
       EXP_B_TOP15.forEach(function (b) {
         const popupHtml = `
@@ -1825,7 +1877,7 @@
               <tr><td class="k">최근접 기존 막힘 지점</td><td class="v">${b.nearest_old} (${b.nearest_dist_m}m)</td></tr>
             </table>
             <div class="popup-note">
-              국토교통부 건물통합정보 A16 높이 가정 결과입니다(층수 A26와 순위 상관 0.891, 공식 명세 미확인). 기존 15곳과 500m 내 7곳(46.7%) 겹치며, 후보 조건이 달라 건물 높이 효과만 분리할 수 없습니다.
+              국토교통부 건물통합정보 A16 높이 가정 결과입니다(층수 A26와 순위 상관 0.891, 공식 명세 미확인). 기존 15곳과 500m 내 7곳(46.7%: BLK_02, BLK_06, BLK_08, BLK_09, BLK_11, BLK_14, BLK_15) 겹치며, 후보 조건이 달라 건물 높이 효과만 분리할 수 없습니다.
             </div>
           </div>
         `;
@@ -1846,7 +1898,7 @@
         featureRefs.bhotspots[String(b.rank)] = { marker, props: b };
       });
 
-      // 9. KMA Weather Stations (14 Points, including 06:W night wind results)
+      // 9. KMA Weather Stations (14 Points, including night wind results)
       layers.stations = L.layerGroup().addTo(map);
       DATA.geojson.stations.features.forEach(function (feature) {
         const p = feature.properties;
@@ -1873,7 +1925,7 @@
             ? `맑음 ${w.clear_align_pct}% 대 흐림 ${w.cloudy_align_pct}%`
             : (w.trop_valid_h === 0 ? "바람 자료 없음" : "90m 이상 상류 경로 미형성");
           windRows = `
-            <tr><td class="k">맑은 열대야 밤 바람(06:W)</td><td class="v">${tropWind}</td></tr>
+            <tr><td class="k">맑은 열대야 밤 바람(보강 실험)</td><td class="v">${tropWind}</td></tr>
             <tr><td class="k">열대야 상류 45도 정렬</td><td class="v">${tropAlign}</td></tr>
             <tr><td class="k">여름 맑음 대 흐림 정렬</td><td class="v">${skyAlign}</td></tr>
           `;
@@ -1902,11 +1954,11 @@
               <tr><td class="k">대구(ASOS 143) 대비 실측 차이</td><td class="v">${diffText}</td></tr>
               <tr><td class="k">고도 보정 밤 최저기온</td><td class="v">${fmt(p.elevation_adjusted_night_tmin_c, "℃")}</td></tr>
               <tr><td class="k">열대야 야간 냉각 폭(18시-최저)</td><td class="v">${fmt(p.observed_night_cooling_range_c, "℃")}</td></tr>
-              <tr><td class="k">맑은 날(02 기준) 밤 최저 / 냉각 폭</td><td class="v">${fmt(det.clear_night_tmin_mean_c, "℃")} / ${fmt(det.clear_night_cooling_range_c, "℃")}</td></tr>
+              <tr><td class="k">맑은 날(기본 분석 기준) 밤 최저 / 냉각 폭</td><td class="v">${fmt(det.clear_night_tmin_mean_c, "℃")} / ${fmt(det.clear_night_cooling_range_c, "℃")}</td></tr>
               ${windRows}
             </table>
             <div class="popup-note">
-              ${p._reason ? p._reason : "2026년 열대야 31일 야간(21시~다음 날 06시, 02 관측소 비교 밤 6시간 이상 기준) 실측 시간자료입니다. 관측소 7곳 소표본이라 밤 최저기온 편상관(-0.828, p 약 0.042)은 검정력이 낮고, 냉각 폭 차이 편상관(+0.639, p=0.1719)은 유의하지 않습니다."}
+              ${p._reason ? p._reason : "2026년 열대야 31일 야간(21시~다음 날 06시, 기본 분석 관측소 비교 밤 6시간 이상 기준) 실측 시간자료입니다. 관측소 7곳 소표본이라 밤 최저기온 편상관(-0.828, p 약 0.042)은 검정력이 낮고, 냉각 폭 차이 편상관(+0.639, p=0.1719)은 유의하지 않습니다."}
             </div>
           </div>
         `;
@@ -2218,8 +2270,8 @@
           if (item.dataset_id === "kma_hourly_14stations") {
             return {
               ...item,
-              name: "대구 주변 14개 지점 시간별 기온 (02 비교 및 06 패널)",
-              preprocessing_note: "원본 파일 2개(28,593행, 목록 외 3개 지점 포함). 02 관측소 비교는 야간 21~06시 중 밤 6시간 이상 관측된 밤 기준(열대야 31일, 7곳), 06 패널 분석은 6~9월 21~06시 10정시 완비 밤 기준(120밤, 832개 관측소-밤)으로 구분 적용"
+              name: "대구 주변 14개 지점 시간별 기온 (기본 분석 비교 및 보강 실험 패널)",
+              preprocessing_note: "원본 파일 2개(28,593행, 목록 외 3개 지점 포함). 기본 분석 관측소 비교는 야간 21~06시 중 밤 6시간 이상 관측된 밤 기준(열대야 31일, 7곳), 보강 실험 패널 분석은 6~9월 21~06시 10정시 완비 밤 기준(120밤, 832개 관측소-밤)으로 구분 적용"
             };
           }
           return item;
@@ -2227,7 +2279,7 @@
       const inv = [...baseInv,
         {
           role: "핵심_기상청공공데이터",
-          name: "관측소 시간별 바람 2026 여름 (06 보강)",
+          name: "관측소 시간별 바람 2026 여름 (보강 실험)",
           source_provider: "기상청 공공데이터포털 (OBS_AWS_TIM)",
           license: "공공누리 1유형",
           raw_row_or_pixel_count: 25774,
@@ -2236,12 +2288,12 @@
         },
         {
           role: "보조_공간자료",
-          name: "국토교통부 GIS건물통합정보 (기본안 미사용, 06 보강 비교)",
+          name: "국토교통부 GIS건물통합정보 (기본안 미사용, 보강 실험 비교)",
           source_provider: "국토교통부, 브이월드 (AL_D010_27)",
           license: "공공누리",
           raw_row_or_pixel_count: 382695,
           valid_row_or_pixel_count: 330106,
-          preprocessing_note: "기본안(02)은 건물 높이를 쓰지 않았고, 건물 높이 비교는 06 보강 실험에서 수행함. 범위 밖 52,589동 제외, 사용 형상 330,106동 중 A16 높이 미상 158,768동은 임의 층수 환산 없이 분리(후보 조건이 달라 건물 높이 효과만 분리할 수 없음)"
+          preprocessing_note: "기본 분석안은 건물 높이를 쓰지 않았고, 건물 높이 비교는 보강 실험에서 수행함. 범위 밖 52,589동 제외, 사용 형상 330,106동 중 A16 높이 미상 158,768동은 임의 층수 환산 없이 분리(후보 조건이 달라 건물 높이 효과만 분리할 수 없음)"
         }
       ];
       const roleOrder = {
